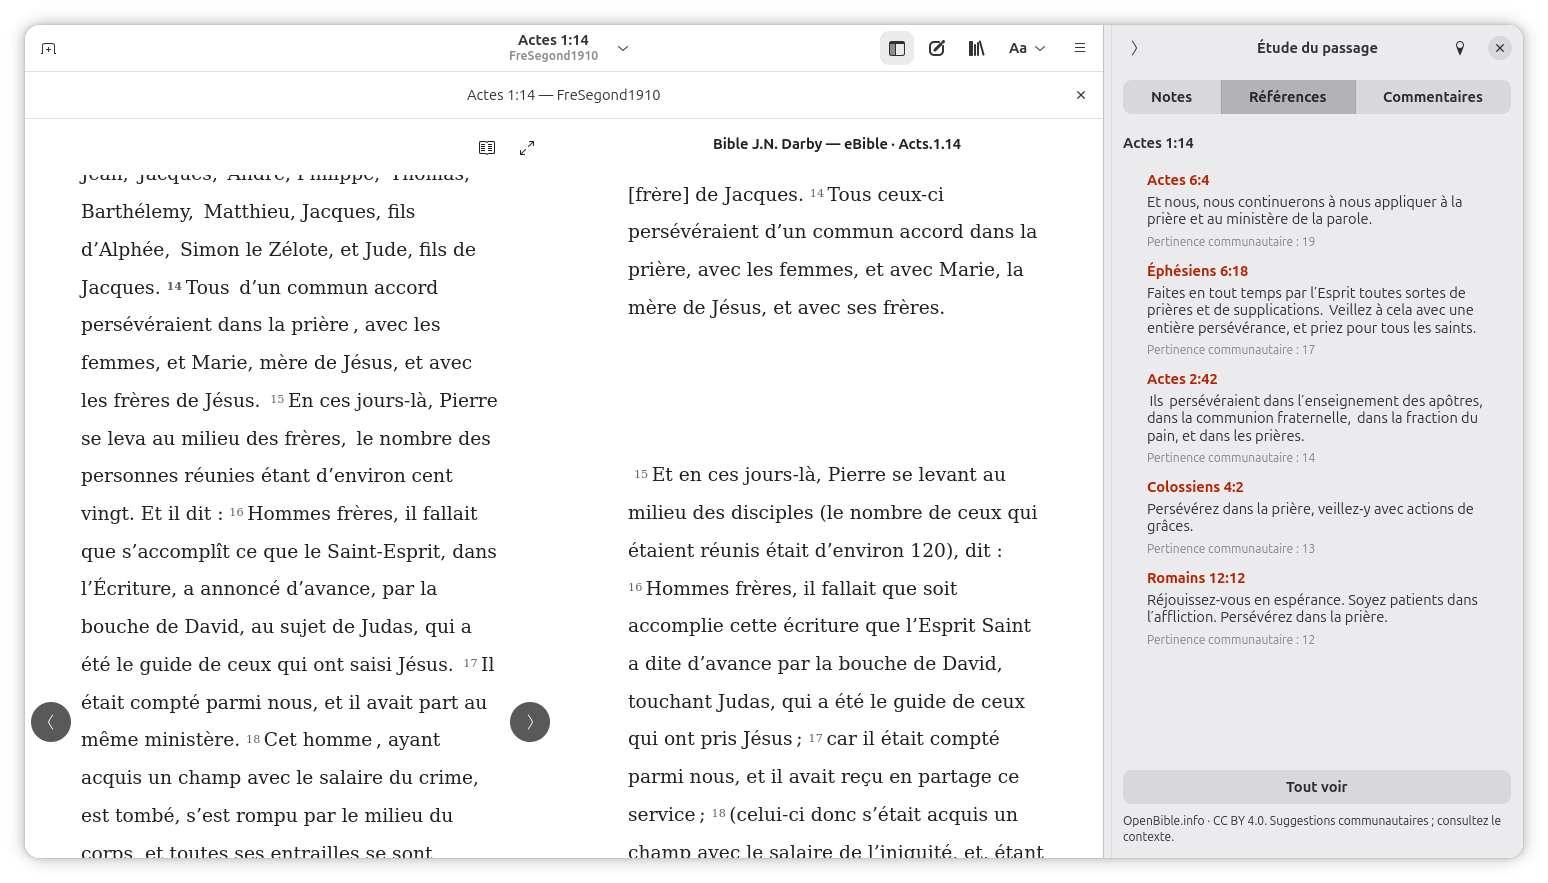
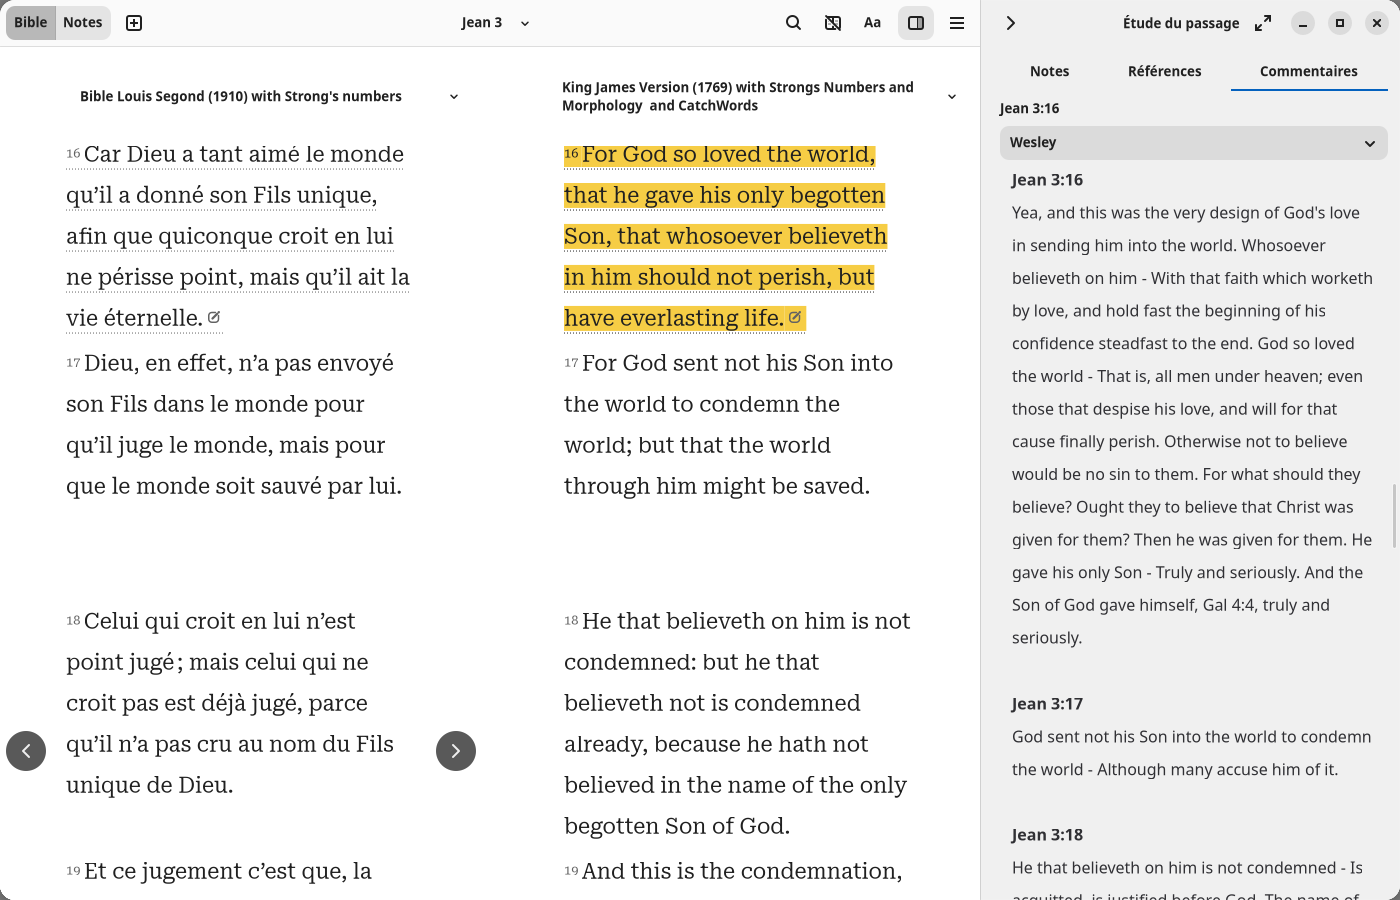
Refresh the store screenshot from the verified native candidate interface

diff --git a/tools/site_assets/index.html b/tools/site_assets/index.html
@@ -19,7 +19,7 @@
     <p class="small"><a href="https://www.patreon.com/BibleStudyApp">Support development on Patreon</a></p>
     <p class="platform">Linux x86_64 · Flatpak · Free and open source</p>
     <p class="small">An early release. Expect rough edges and help us improve it.<br>Interface available in English and French.</p>
-    <figure><img class="screenshot" src="assets/reading.png" width="1400" height="900" alt="Published Bible alpha: John 3 in the French Louis Segond translation, with the right-hand Matthew Henry commentary drawer and shared reading typography."><figcaption>Real application capture · signed alpha 8d3a183</figcaption></figure>
+    <figure><img class="screenshot" src="assets/reading.png" width="1400" height="900" alt="Bible application: John 3 in French Louis Segond and English King James, with a downloaded Wesley commentary."><figcaption>Real application capture · parallel reading and commentary</figcaption></figure>
   </section>
   <section class="help wrap" aria-labelledby="philosophy">
     <h2 id="philosophy">Simplicity over features</h2>
